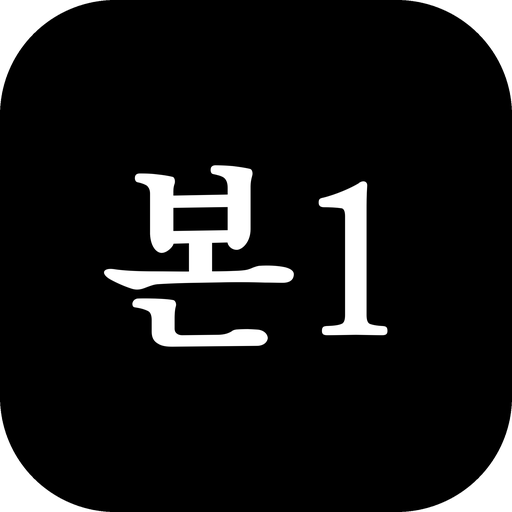
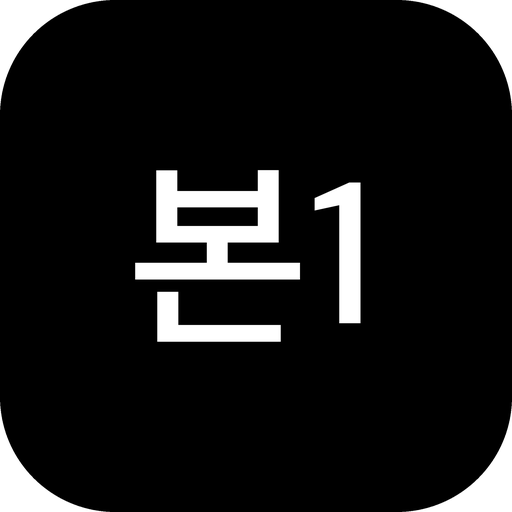
앱 아이콘 「본1」을 고딕(Apple SD 산돌고딕 Neo SemiBold)으로
Claude-Session: https://claude.ai/code/session_01VPTps9VtENe93VmHswCp6S

Changed region(s): [[0.1875, 0.3125, 0.5938, 0.6875], [0.625, 0.3438, 0.7812, 0.6562], [0.5938, 0.375, 0.6562, 0.4062]]

diff --git a/index.html b/index.html
@@ -12,9 +12,9 @@
 <meta name="apple-mobile-web-app-status-bar-style" content="default">
 <meta name="robots" content="noindex">
 <link rel="manifest" href="manifest.webmanifest">
-<link rel="icon" href="icons/favicon-32.png?v=2" sizes="32x32">
-<link rel="icon" href="icons/icon-192.png?v=2" sizes="192x192">
-<link rel="apple-touch-icon" href="icons/apple-touch-icon.png?v=2">
+<link rel="icon" href="icons/favicon-32.png?v=3" sizes="32x32">
+<link rel="icon" href="icons/icon-192.png?v=3" sizes="192x192">
+<link rel="apple-touch-icon" href="icons/apple-touch-icon.png?v=3">
 <link rel="preconnect" href="https://api.github.com" crossorigin>
 <link rel="preconnect" href="https://tkgwfqiqsnqtoljalmux.supabase.co" crossorigin>
 <style>

diff --git a/sw.js b/sw.js
@@ -1,5 +1,5 @@
 /* 껍데기와 바뀌지 않는 라이브러리·글꼴을 저장해 두어 빨리 열리게 한다. 데이터(GitHub·Supabase)는 건드리지 않는다. */
-const CACHE = 'knu1-shell-v9';
+const CACHE = 'knu1-shell-v10';
 const LIBS = 'knu1-libs-v1';
 const SHELL = ['./', 'index.html', 'shell.js', 'config.js', 'manifest.webmanifest', 'icons/icon-192.png', 'icons/apple-touch-icon.png'];
 // 주소에 버전이 들어 있어 내용이 안 바뀌는 것 + 글꼴 → 저장해 둔 것을 바로 씀
